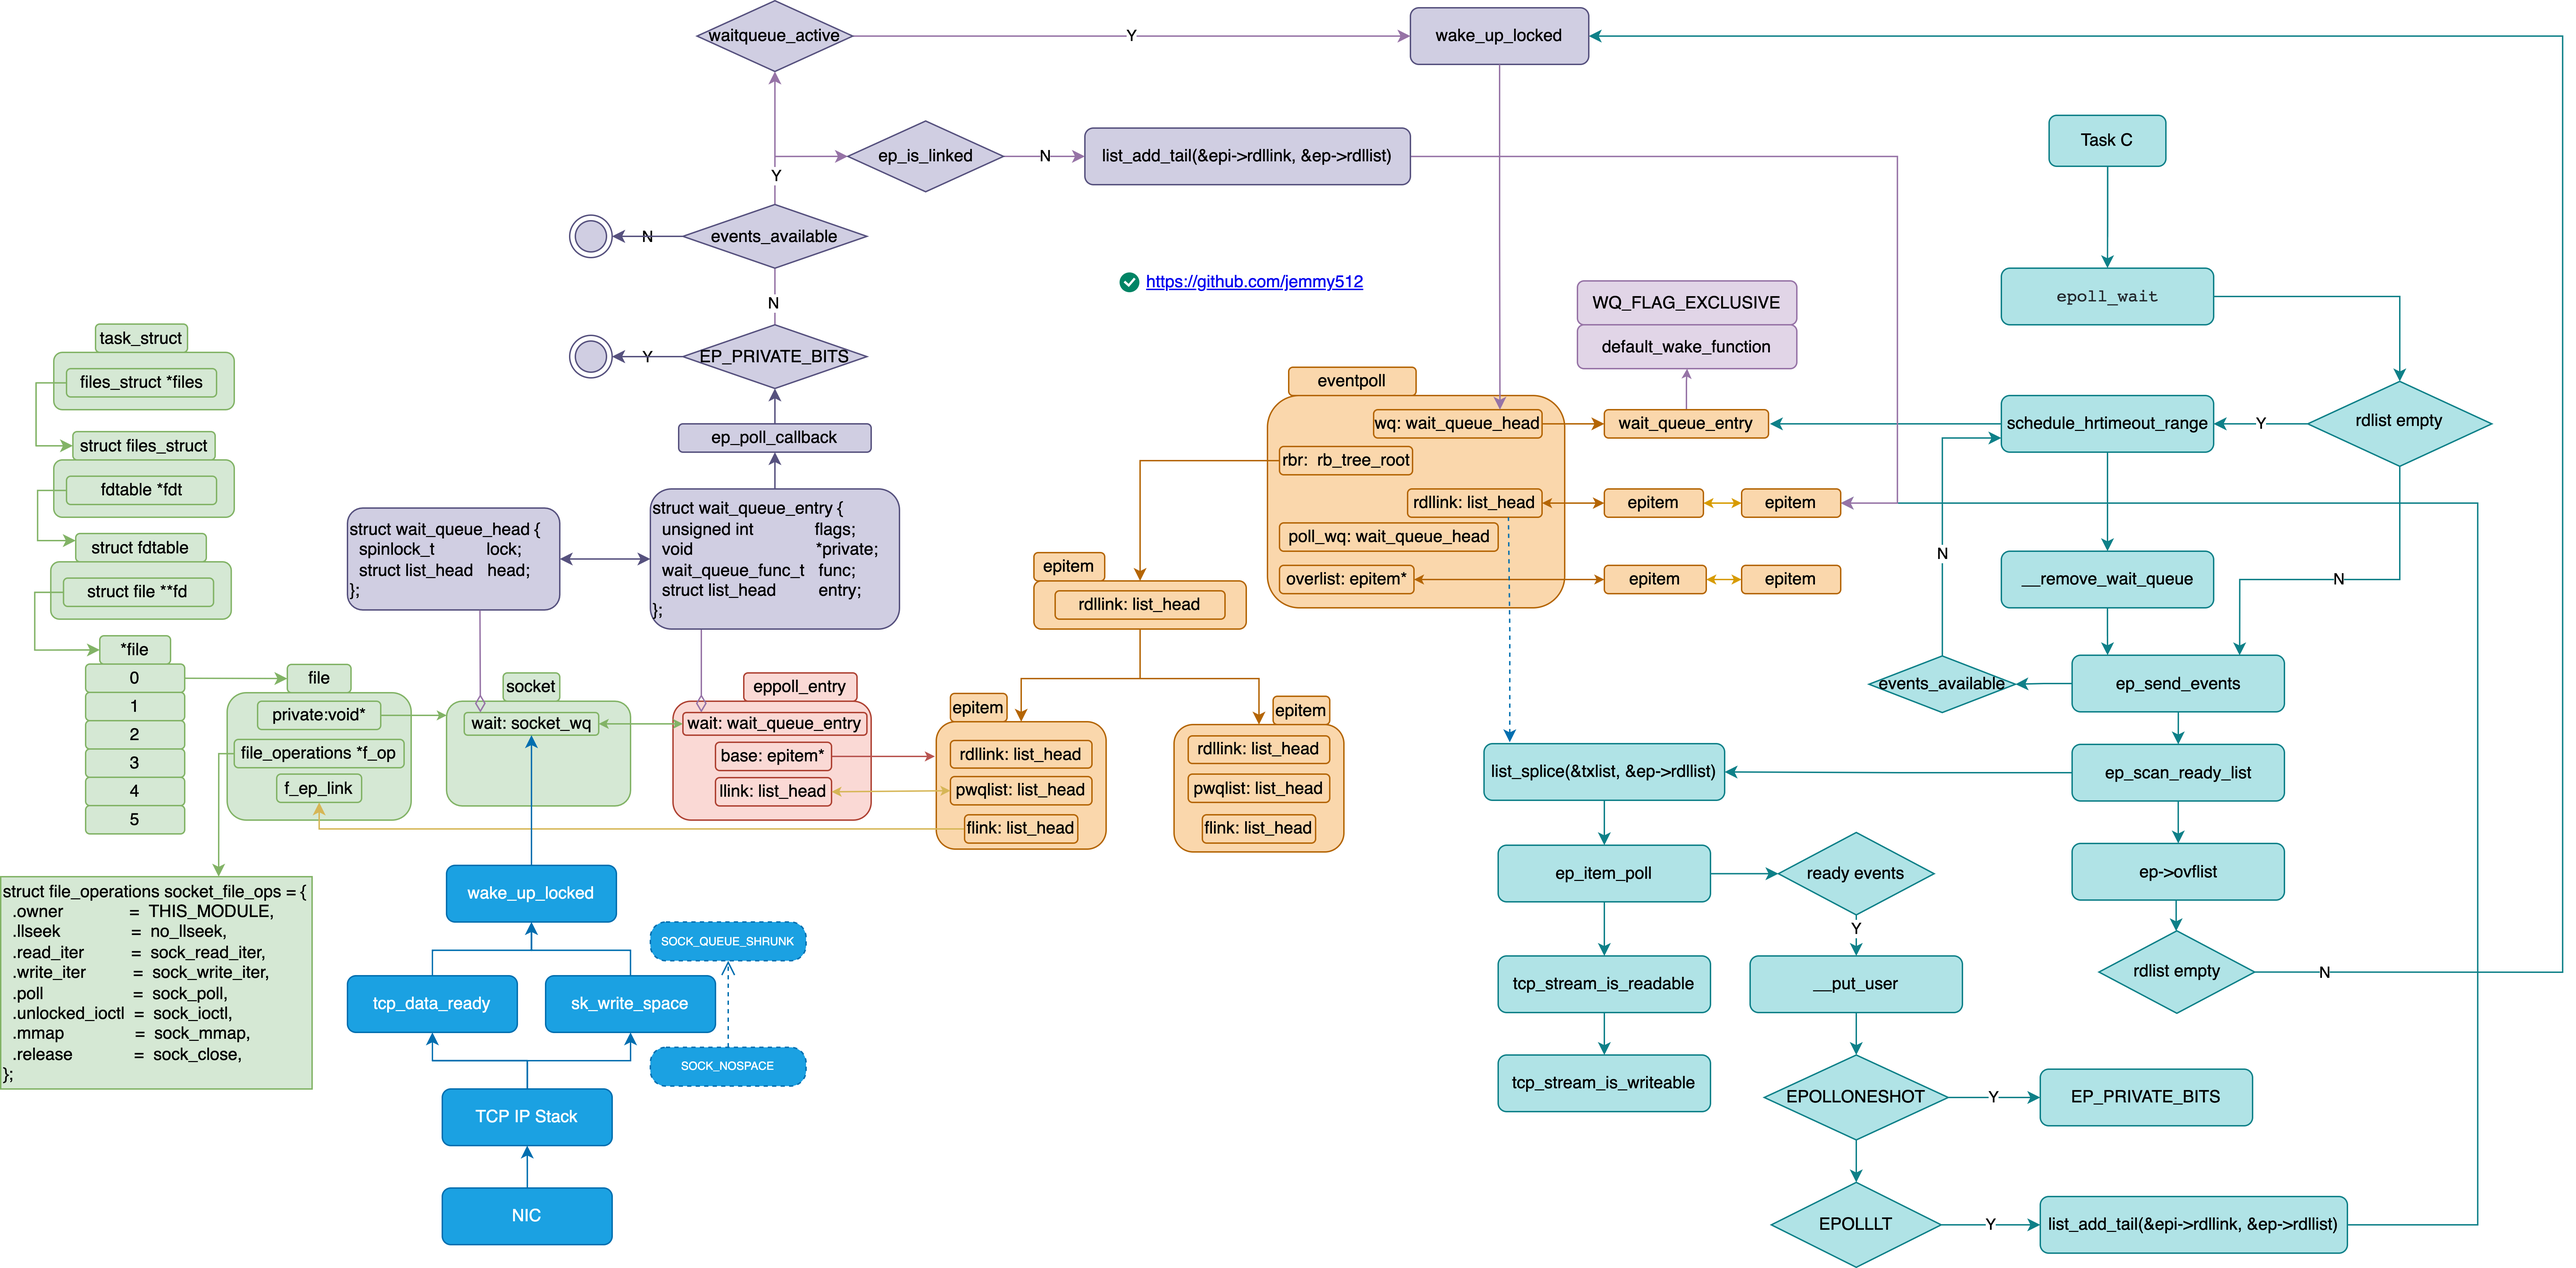
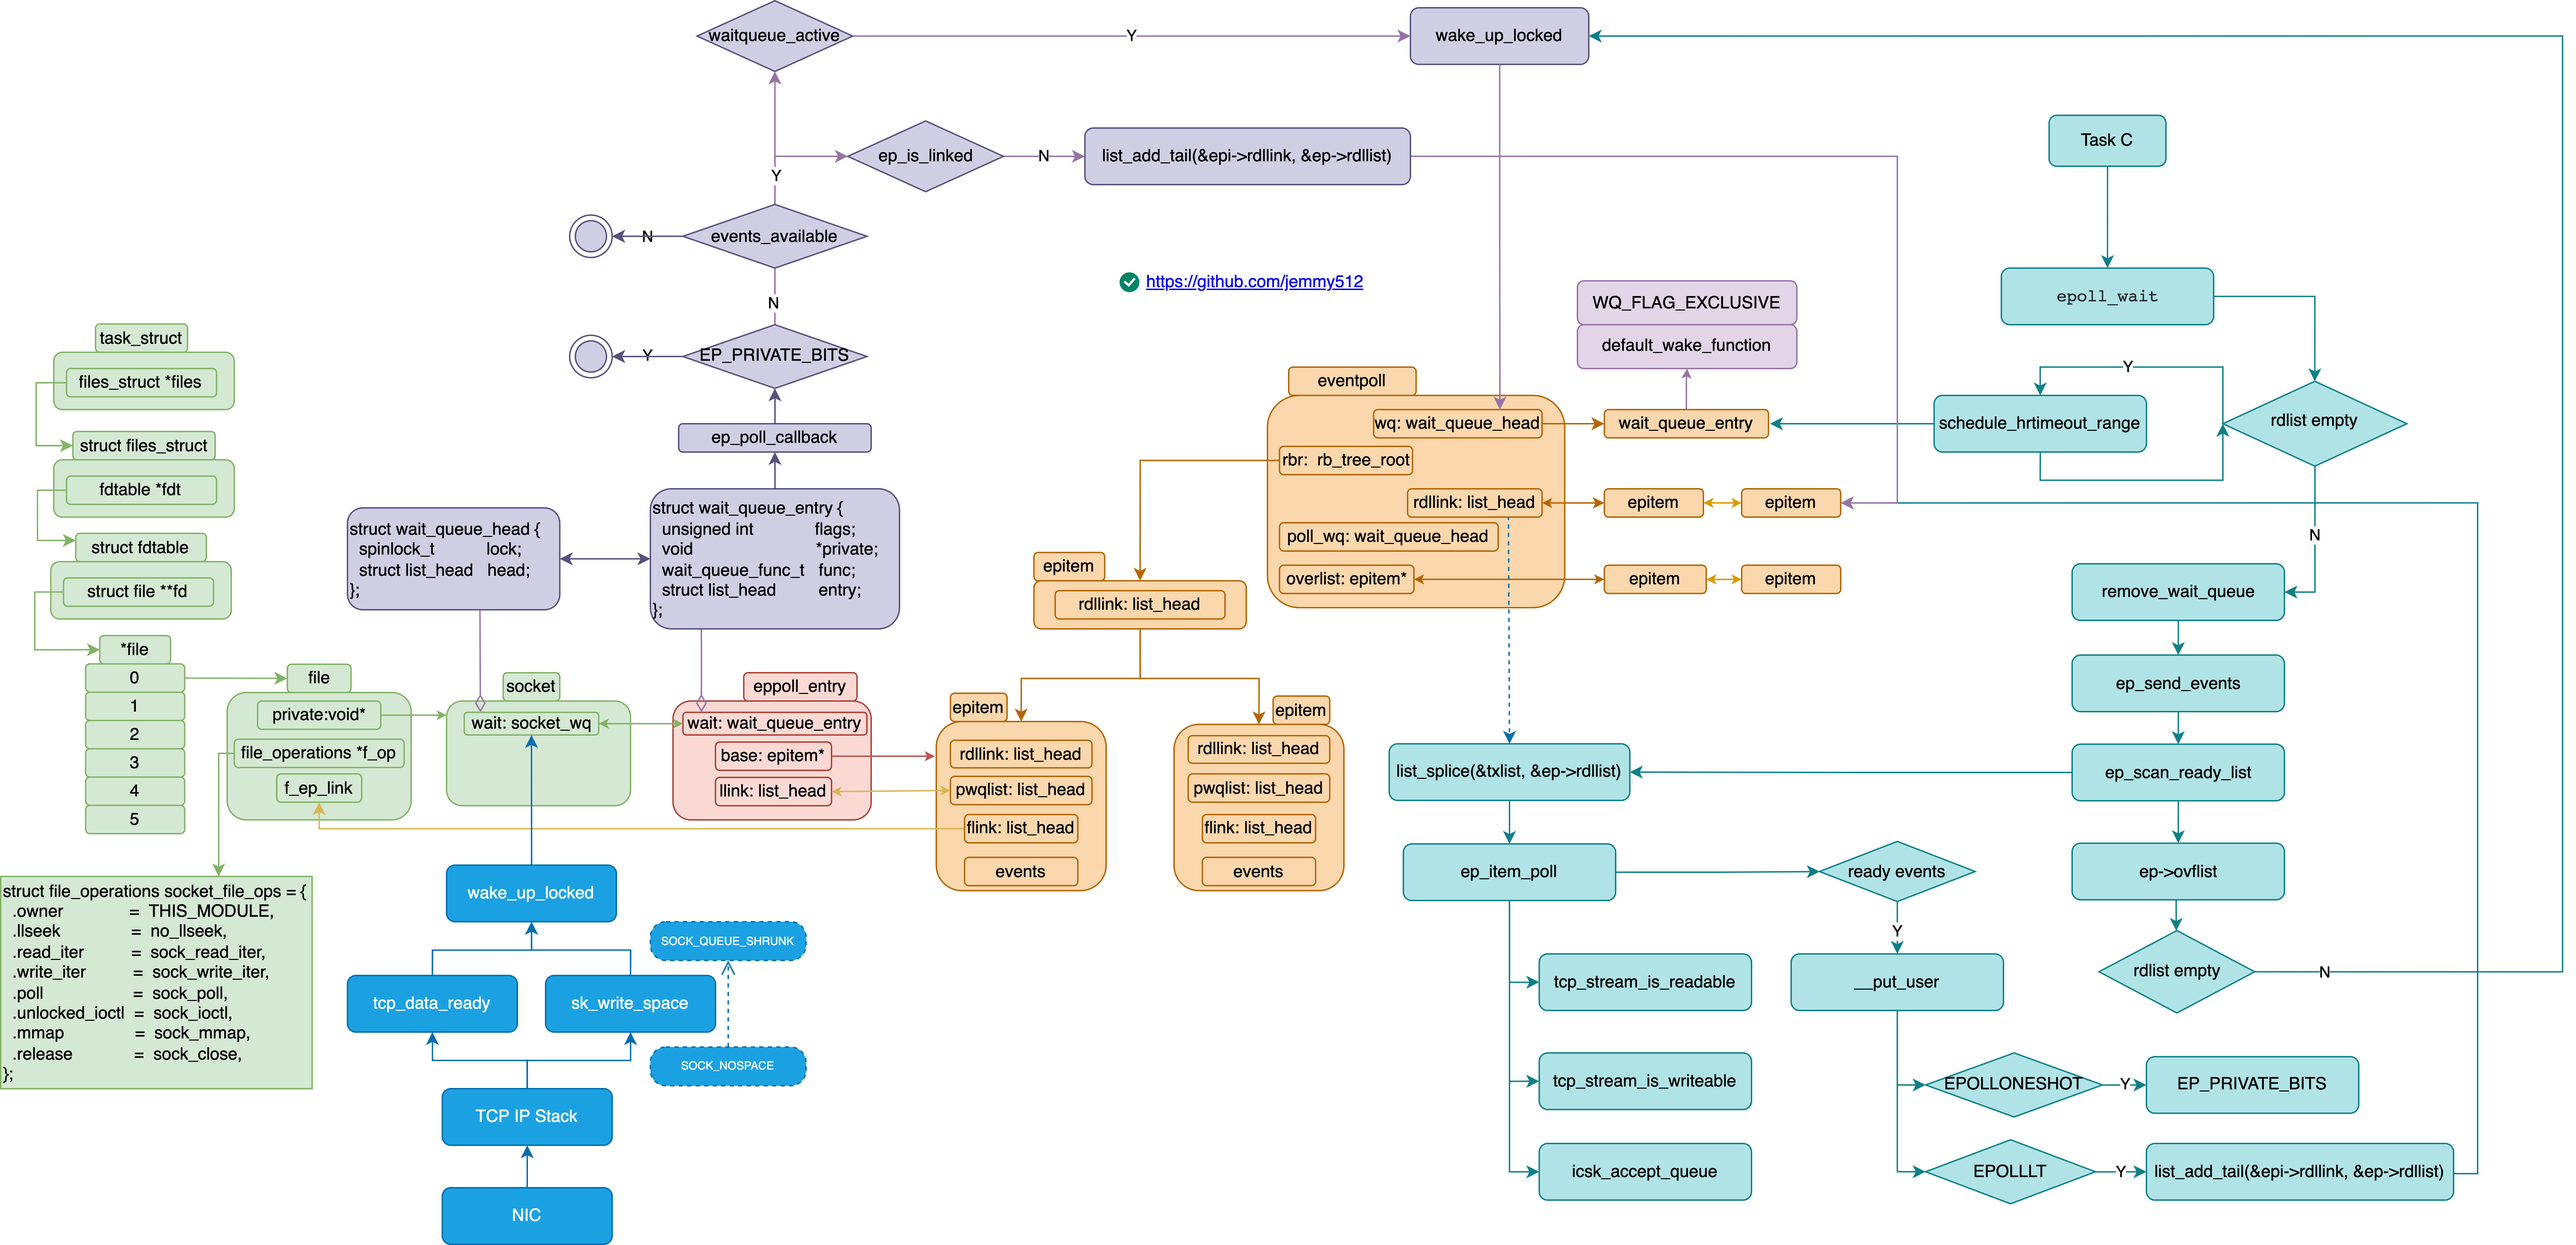
Kernel Net

diff --git a/Linux/linux-kernel-net.md b/Linux/linux-kernel-net.md
@@ -53,6 +53,19 @@
     * [vfs layer](#vfs-layer-rx)
     * [socket layer](#socket-layer-rx])
 
+* [epoll](#epoll)
+    * [epoll_create](#epoll_create)
+    * [epoll_ctl](#epoll_ctl)
+        * [ep_insert](#ep_insert)
+            *[ep_item_poll](#ep_item_poll)
+        * [ep_modify](#ep_modify)
+        * [ep_delete](#ep_delete)
+    * [epoll_wait](#epoll_wait)
+    * [sock_def_readable](#sock_def_readable)
+    * [sock_def_write_space](#sock_def_write_space)
+    * [eventpoll_init](#eventpoll_init)
+    * [evetfd](#evetfd)
+
 * [route](#route)
   * [route out](#route-out)
   * [route in](#route-in)
@@ -108,18 +121,12 @@
     * [tcp_send_synack](#tcp_send_synack)
     * [tcp_fin](#tcp_fin)
     * [tcp_send_fin](#tcp_send_fin)
-* [epoll](#epoll)
-    * [epoll_create](#epoll_create)
-    * [epoll_ctl](#epoll_ctl)
-        * [ep_insert](#ep_insert)
-            *[ep_item_poll](#ep_item_poll)
-        * [ep_modify](#ep_modify)
-        * [ep_delete](#ep_delete)
-    * [epoll_wait](#epoll_wait)
-    * [sock_def_readable](#sock_def_readable)
-    * [sock_def_write_space](#sock_def_write_space)
 * [inet_init](#inet_init)
 * [net_dev_init](#net_dev_init)
+
+---
+
+* [Linux Thundering Herd Problem :cn:](https://mp.weixin.qq.com/s/dQWKBujtPcazzw7zacP1lg)
 
 ![](../Images/Kernel/kernel-structual.svg)
 
@@ -1803,6 +1810,9 @@ discard:
 ```
 
 ### tcp_conn_request
+
+* [tcp/dccp: lockless listener](https://lwn.net/Articles/659199/)
+
 ```c++
 const struct inet_connection_sock_af_ops ipv4_specific = {
   .queue_xmit        = ip_queue_xmit,
@@ -3025,7 +3035,7 @@ void prepare_to_wait_exclusive(
 
 #define DEFINE_WAIT(name) DEFINE_WAIT_FUNC(name, autoremove_wake_function)
 
-#define DEFINE_WAIT_FUNC(name, function)       \
+#define DEFINE_WAIT_FUNC(name, function)      \
   struct wait_queue_entry name = {            \
     .private  = current,                      \
     .func     = function,                     \
@@ -8584,13 +8594,17 @@ int sk_wait_data(struct sock *sk, long *timeo, const struct sk_buff *skb)
 
 ```c++
 /* driver layer */
-ixgb_intr()
+ixgb_intr(int irq, void *data)
   IXGB_WRITE_REG(&adapter->hw, IMC, ~0);  /* disable irq */
   __napi_schedule()
+    list_add_tail(&napi->poll_list, &sd->poll_list)
     __raise_softirq_irqoff(NET_RX_SOFTIRQ)
       net_rx_action()
+        LIST_HEAD(list);
+        list_splice_init(&sd->poll_list, &list)
+
         napi_poll()
-          ixgb_clean_tx_irq(adapter);
+          ixgb_clean_tx_irq(adapter); /* dma_unmap_page */
           ixgb_clean_rx_irq(adapter, &work_done, budget);
             netif_receive_skb(skb);
 
@@ -8622,14 +8636,14 @@ netif_receive_skb()
 
 /* ip layer */
 ip_rcv()
-    NF_HOOK(NF_INET_PRE_ROUTING)                    /* 1. PRE_NF */
+    NF_HOOK(NF_INET_PRE_ROUTING)                    /* 1. NF_INET_PRE_ROUTING */
         ip_rcv_finish()
             ip_rcv_finish_core()
                 ip_route_input_noref()              /* 2. route */
             dst_input()
                 ip_local_deliver()
                     ip_defrag()                     /* 3. defragment */
-                    NF_HOOK(NF_INET_LOCAL_IN)       /* 4. IN_NF */
+                    NF_HOOK(NF_INET_LOCAL_IN)       /* 4. NF_INET_LOCAL_IN */
                     ip_local_deliver_finish()
                         inet_protos[protocol]->handler()
                             net_protocol->handler()
@@ -8817,8 +8831,8 @@ process:
             /* Advance cwnd if state allows */
             tcp_cong_avoid(sk, ack, acked_sacked);
           }
-	        tcp_update_pacing_rate(sk);
-	      tcp_xmit_recovery();
+          tcp_update_pacing_rate(sk);
+        tcp_xmit_recovery();
 
       if (sk->sk_state == TCP_SYN_RECV) {
         tcp_init_transfer();
@@ -8889,7 +8903,7 @@ do_time_wait:
   }
 
 tcp_data_queue();
-  /* 1. [seq = rcv_next < end_seq < win] */
+  /* 1. ACK [seq = rcv_next < end_seq < win] */
     tcp_queue_rcv();
     tcp_event_data_recv();
       tcp_grow_window();
@@ -8900,21 +8914,21 @@ tcp_data_queue();
       sk->sk_data_ready();
         sock_def_readable();
 
-  /* 2. [seq < end_seq < rcv_next < win] */
+  /* 2. DROP [seq < end_seq < rcv_next < win] */
     tcp_dsack_set();
     tcp_enter_quickack_mode();
     inet_csk_schedule_ack(sk);
     tcp_drop();
 
-  /* 3. [rcv_next < win < seq < end_seq] */
+  /* 3. DROP [rcv_next < win < seq < end_seq] */
     tcp_enter_quickack_mode();
     inet_csk_schedule_ack(sk);
     tcp_drop();
 
-  /* 4. [seq < rcv_next < end_seq < win] */
+  /* 4. OFO [seq < rcv_next < end_seq < win] */
     tcp_dsack_set();
 
-  /* 5. [rcv_next < seq < end_seq < win] */
+  /* 5. DACK [rcv_next < seq < end_seq < win] */
     tcp_data_queue_ofo();
 
 /* vfs layer */
@@ -14250,6 +14264,10 @@ void __tcp_push_pending_frames(
 
 ![](../Images/Kernel/net-epoll.png)
 
+---
+
+![](../Images/Kernel/net-epoll-thread-model.png)
+
 ```c++
 typedef union epoll_data {
   void     *ptr;
@@ -14639,7 +14657,9 @@ __poll_t tcp_poll(struct file *file, struct socket *sock, poll_table *wait)
 
   state = inet_sk_state_load(sk);
   if (state == TCP_LISTEN)
-    return inet_csk_listen_poll(sk);
+    return inet_csk_listen_poll(sk) {
+      return !reqsk_queue_empty(&inet_csk(sk)->icsk_accept_queue) ? (EPOLLIN | EPOLLRDNORM) : 0;
+    }
 
   mask = 0;
 
@@ -15383,6 +15403,32 @@ static ssize_t eventfd_write(struct file *file, const char __user *buf, size_t c
 }
 ```
 
+## eventpoll_init
+```c++
+int __init eventpoll_init(void)
+{
+  struct sysinfo si;
+
+  si_meminfo(&si);
+
+  max_user_watches = (((si.totalram - si.totalhigh) / 25) << PAGE_SHIFT) / EP_ITEM_COST;
+
+  /* Allocates slab cache used to allocate "struct epitem" items */
+  epi_cache = kmem_cache_create("eventpoll_epi", sizeof(struct epitem),
+      0, SLAB_HWCACHE_ALIGN|SLAB_PANIC|SLAB_ACCOUNT, NULL);
+
+  /* Allocates slab cache used to allocate "struct eppoll_entry" */
+  pwq_cache = kmem_cache_create("eventpoll_pwq",
+    sizeof(struct eppoll_entry), 0, SLAB_PANIC|SLAB_ACCOUNT, NULL);
+  epoll_sysctls_init();
+
+  ephead_cache = kmem_cache_create("ep_head",
+    sizeof(struct epitems_head), 0, SLAB_PANIC|SLAB_ACCOUNT, NULL);
+
+  return 0;
+}
+```
+
 ```c++
 /* epoll_create */
 epoll_create();
@@ -15401,21 +15447,49 @@ epoll_ctl();
         revents = ep_item_poll(epi, &pt, 1);
             if (!is_file_epoll(epi->ffd.file)) /* return f->f_op == &eventpoll_fops; */
                 vfs_poll(file,  &epq.pt, 1);
-                    file->f_op->poll(); /* sock_poll() */
-                        sock->ops->poll(); /* tcp_poll() */
-                            /* 1. register observer */
-                            sock_poll_wait();
-                                if (!poll_does_not_wait(p)) /* return p == NULL || p->_qproc == NULL */
-                                    poll_wait(filp, &sock->wq->wait, p);
-                                        p->_qproc(); /* ep_ptable_queue_proc, virqfd_ptable_queue_proc, irqfd_ptable_queue_proc, memcg_event_ptable_queue_proc */
-                                            init_waitqueue_func_entry(&pwq->wait, ep_poll_callback);
-                                            add_wait_queue(whead, &pwq->wait);
-                            /* 2. poll ready events */
-                            if (tcp_stream_is_readable(tp, target, sk))
-                                mask |= EPOLLIN | EPOLLRDNORM;
-                            if (sk_stream_is_writeable(sk))
-                                mask |= EPOLLOUT | EPOLLWRNORM;
-                            return mask;
+                    file->f_op->poll();
+                        {
+                          sock_poll(struct file *file, poll_table *wait)
+                            sock->ops->poll(); /* tcp_poll() */
+                                /* 1. register observer */
+                                sock_poll_wait();
+                                    if (!poll_does_not_wait(p)) /* return p == NULL || p->_qproc == NULL */
+                                        poll_wait(filp, &sock->wq->wait, p);
+                                            p->_qproc();
+                                                init_waitqueue_func_entry(&pwq->wait, ep_poll_callback);
+                                                add_wait_queue(whead, &pwq->wait);
+
+                                /* 2. poll listen socket */
+                                if (state == TCP_LISTEN)
+                                    return inet_csk_listen_poll(sk) {
+                                        return !reqsk_queue_empty(&inet_csk(sk)->icsk_accept_queue)
+                                          ? (EPOLLIN | EPOLLRDNORM) : 0;
+                                    }
+
+                                /* 3. poll ready events */
+                                if (tcp_stream_is_readable(tp, target, sk))
+                                    mask |= EPOLLIN | EPOLLRDNORM;
+                                if (sk_stream_is_writeable(sk))
+                                    mask |= EPOLLOUT | EPOLLWRNORM;
+                                return mask;
+                        }, {
+                          eventfd_poll(struct file *file, poll_table *wait)
+                              poll_wait(struct file * filp, wait_queue_head_t * queue, poll_table *pt)
+                                  pt->_qproc(filep, queue, pt);
+                                      /* ep_ptable_queue_proc,
+                                      * virqfd_ptable_queue_proc,
+                                      * irqfd_ptable_queue_proc,
+                                      * memcg_event_ptable_queue_proc */
+                              if (count > 0)
+                                  events |= EPOLLIN;
+                              if (count == ULLONG_MAX)
+                                  events |= EPOLLERR;
+                              if (ULLONG_MAX - 1 > count)
+                                  events |= EPOLLOUT;
+
+                              return events;
+                        }
+
             else
                 poll_wait(epi->ffd.file, &ep->poll_wait, pt);
                 return ep_scan_ready_list(ep_read_events_proc);
@@ -15507,8 +15581,16 @@ tcp_data_ready();
                         list_for_each_entry_safe_from(curr, next, &wq_head->head) {
                             ret = curr->func(curr, mode, wake_flags, key);
                                 ep_poll_callback();
+                                    /* 1. check EPOLLONCESHOT */
+                                    if (!(epi->event.events & ~EP_PRIVATE_BITS))
+                                        return;
+                                    /* 2. check intrested events */
+                                    if (!(pollflags & epi->event.events)
+                                        return;
+                                    /* 3. add to epoll ready list */
                                     if (!ep_is_linked(epi))
                                         list_add_tail(&epi->rdllink, &ep->rdllist);
+                                    /* 4. wake up */
                                     wake_up_locked(&ep->wq);
                                         __wake_up_common();
                                     ep_poll_safewake(&ep->poll_wait);
